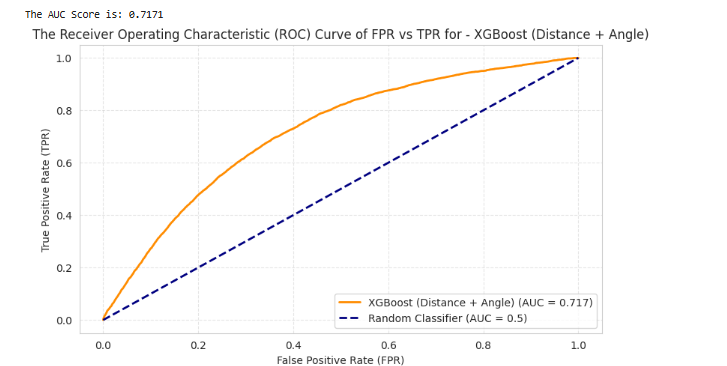
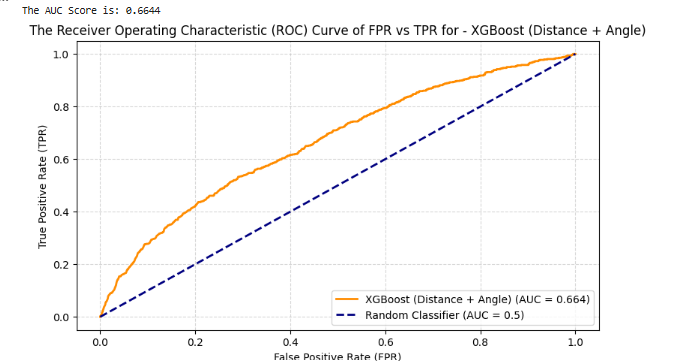
11.14.2025 Blog version 2

diff --git a/src/myblog/_posts/2025-11-07-nhl-play-by-play-analysis milestone 2.md b/src/myblog/_posts/2025-11-07-nhl-play-by-play-analysis milestone 2.md
@@ -234,22 +234,15 @@ In this section, we advanced beyond the baseline Logistic Regression to build **
 
 ### Q1 — Baseline XGBoost (Distance & Angle Only)
 
-The first step was to train a **baseline XGBoost model** using only the `shot_distance` and `shot_angle` features.  
-This model served as a comparison to the fully tuned models trained later with the complete feature set.
+Using the transformed tidy data, we proceeded to split the tidy data into a training and validation set to evaluate the effectiveness of the XGBoost baseline classifier. The first step was to train a **baseline XGBoost model** using only the `shot_distance` and `shot_angle` features.  This model served as a comparison to the Logistic Regression baseline model defined in section 3, and other fully tuned models trained later with the complete feature set.
 
-**Training setup:**
-- X Train shape: (262,686 × 2)
-- y train shape: (65,672 × 2)
-- X val shape: (262,686)
-- y val shape: (65,672)
+Note in section 5 in order to ensure testing could be completed in a timely manner that minimized memory usage and computation cost, the training and validation sets used in section 5 comprised 10% of the entire transformed tidy data which 5 seasons worth of NHL data. 
+
 - Optimizer: `XGBoostClassifier` (default parameters)
 - Evaluation metric: `roc_auc`, goal rate curve, cumulative goal rate, and reliability curve 
 
 **Results:**
-- Validation Accuracy: **0.90524**
-- Validation AUC: **0.7171**
-
-These results already surpassed Logistic Regression's baseline model where the AUC is 0.699 from Task 3, showing XGBoost’s strength in capturing nonlinear patterns in comparison to Logistic Regression. In summary, Logistic Regression is a worse classifier for expected goals than XGBoost. 
+- Validation AUC: **0.664**
 
 **Visualizations:**
 
@@ -258,9 +251,13 @@ These results already surpassed Logistic Regression's baseline model where the A
 ![Baseline XGBoost Cumulative Goal Rate Curve]({{ site.baseurl }}/assets/images/image-42.png)
 ![Baseline XGBoost Reliability Curve]({{ site.baseurl }}/assets/images/image-43)
 
-**WandB Run:** [View Baseline XGBoost Experiment](https://wandb.ai/IFT6758-2025-B08/IFT6758-Milestone2)
+**WandB Run:** [View Baseline XGBoost Experiment]( https://wandb.ai/IFT6758-2025-B08/IFT6758-Milestone2/runs/funh0so2)
 
+**Analysis**
 
+Suprisingly, the XGB AUC of 0.664 is smaller in comparison to the Logistic Regression's baseline model, where the AUC is 0.699 from Task 3. This shows XGBoost’s comparative lack of strength in capturing nonlinear patterns in comparison to Logistic Regression. In summary, prior to more sophisticated hyper parameter tuning and feature selection, XGBoost performs worse as an Expected Goal classifier than Logistic Regression. This could be derived from the smaller number of training samples used to train XGBoost baseline compared to that of Logistic Regression's baseline, or XGBoost's baseline being more sensitive to the class imbalance compared to Logistic Regression. 
+
+With respect to the Goal Rate and Cumulative Goal curve, the general monotonically increasing trend which aligns with that of the Logistic Regression. However, the graphs are overall less smooth than the curves of Logistic Regression. The higher the probability percentile, the higher the goal scoring rate. The Calibration tool for distance and angle is initially close to the perfect classifier but diverges above and away the perfectly calibrated curve for larger probability percentiles. These all reinforce that the XGBoost is a better than random but an imperfect classifier for Expected Goals possibly due to the sensitivity of a serious class imbalance. 
 
 ### Q2 — XGBoost with All Features and Hyperparameter Tuning
 
